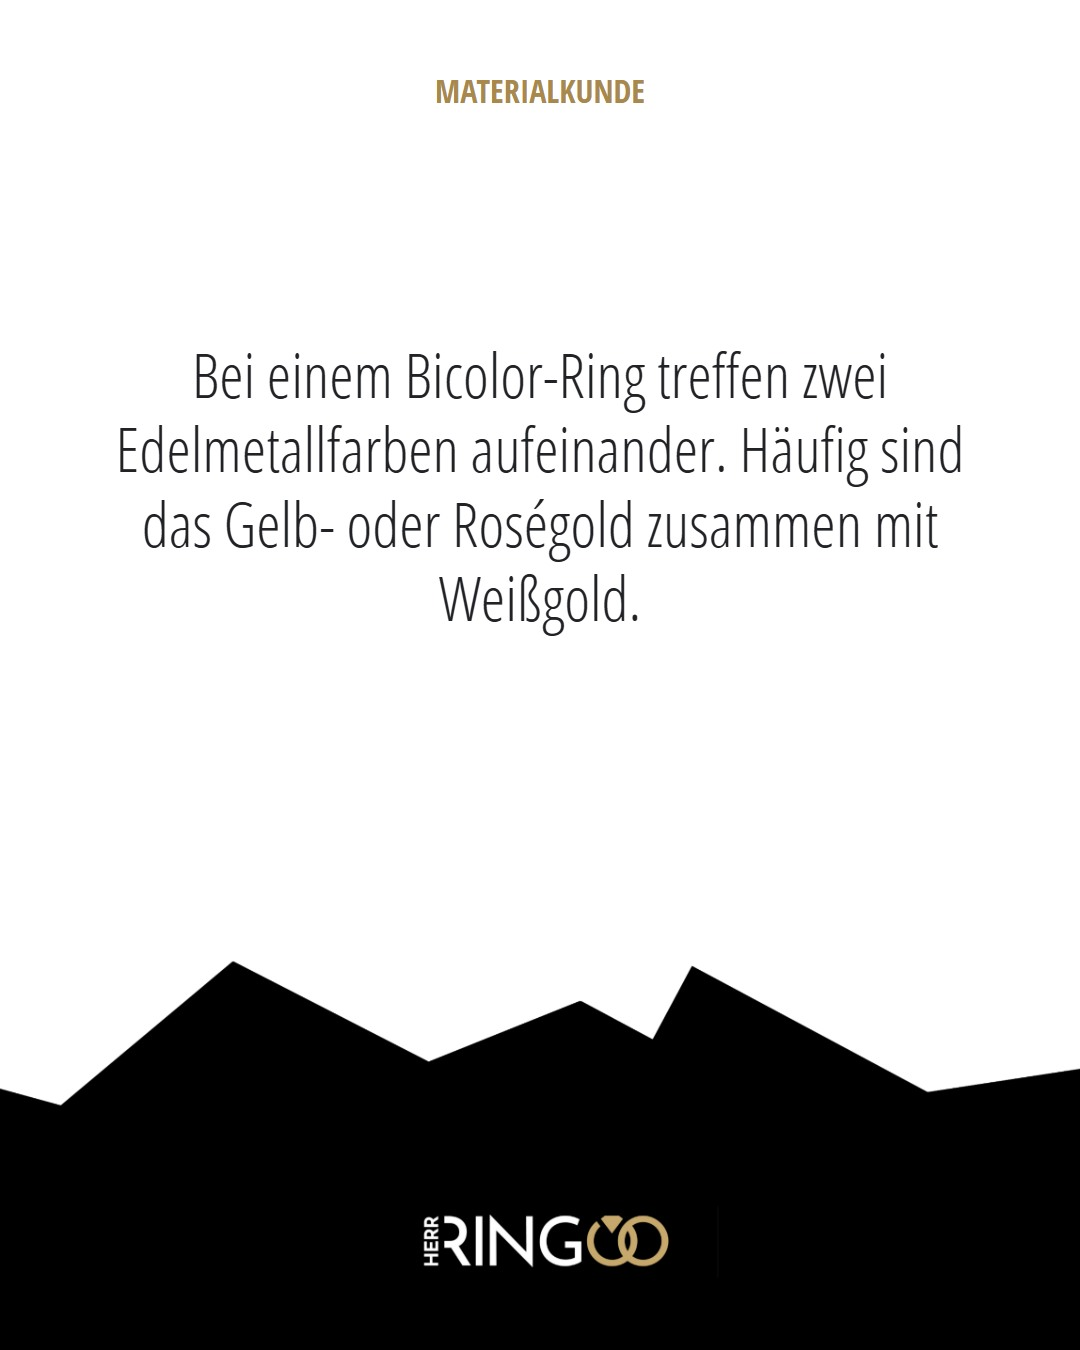
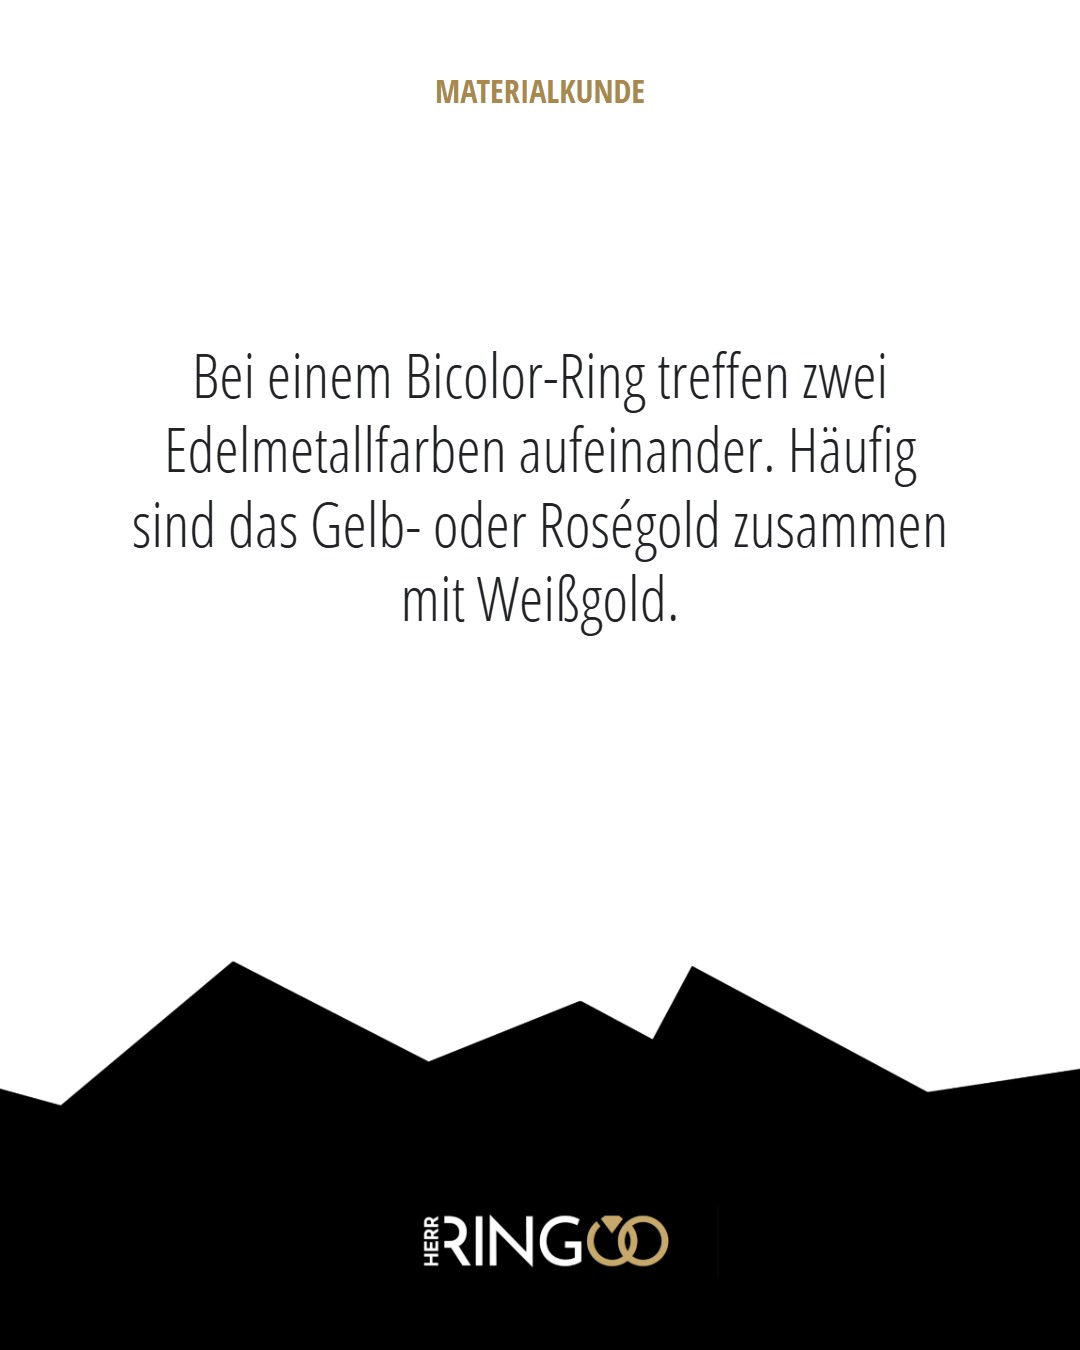
Slides for remaining Materialkunde posts, balanced line wrapping
- New slides for 26-08-gebrauchsspuren, 26-08-ring-entsteht and 26-08-die-4c
  (text unchanged except the approved "Geschirr" -> "Besteck" from the post comments)
- Balanced titles / no orphan words via text-wrap; all 30 slides re-rendered
- Styleguide: line wrapping, title font rule, background rotation

Changed region(s): [[0.0917, 0.3111, 0.9167, 0.4667]]

diff --git a/planungs-webseite/slides/26-08-die-4c.html b/planungs-webseite/slides/26-08-die-4c.html
@@ -1,0 +1,75 @@
+<!DOCTYPE html>
+<html lang="de">
+<head>
+<meta charset="utf-8">
+<meta name="viewport" content="width=device-width, initial-scale=1">
+<title>Slides – Materialkunde · Die 4 C</title>
+<link rel="preconnect" href="https://fonts.googleapis.com">
+<link rel="preconnect" href="https://fonts.gstatic.com" crossorigin>
+<link href="https://fonts.googleapis.com/css2?family=Josefin+Sans:ital,wght@0,400;0,600;0,700;1,400&family=Open+Sans+Condensed:ital,wght@0,300;0,700;1,300&display=swap" rel="stylesheet">
+<link rel="stylesheet" href="slides.css">
+</head>
+<body>
+<div class="toolbar">
+  <strong>Materialkunde · Die 4 C</strong>
+  <label>Größe
+    <select id="scale">
+      <option value="0.33">33 %</option>
+      <option value="0.5" selected>50 %</option>
+      <option value="0.75">75 %</option>
+      <option value="1">100 % (1080 × 1350)</option>
+    </select>
+  </label>
+  <label><input type="checkbox" id="safe"> Sicheren Textbereich anzeigen</label>
+  <a href="index.html">Alle Slides</a>
+</div>
+<main class="deck">
+
+  <figure class="frame"><div class="stage"><div class="slide bg2">
+    <p class="kicker">Materialkunde</p>
+    <div class="content">
+      <p class="p-xl">Die <span class="g">4 C</span></p>
+      <p class="dia" aria-hidden="true">◆</p>
+      <p class="p-text">So werden Diamanten miteinander verglichen.</p>
+    </div>
+  </div></div><figcaption>Folie 1 (bg 2)</figcaption></figure>
+
+  <figure class="frame"><div class="stage"><div class="slide bg3">
+    <p class="kicker">Materialkunde</p>
+    <div class="content">
+      <p class="p-big"><span class="g">Carat</span> · Gewicht</p>
+      <p class="dia" aria-hidden="true">◆</p>
+      <p class="p-text">Ein Karat entspricht 0,2 Gramm. Es beschreibt das Gewicht, nicht die sichtbare Größe. Zwei gleich schwere Steine können deshalb unterschiedlich groß wirken.</p>
+    </div>
+  </div></div><figcaption>Folie 2 (bg 3)</figcaption></figure>
+
+  <figure class="frame"><div class="stage"><div class="slide bg4">
+    <p class="kicker">Materialkunde</p>
+    <div class="content">
+      <p class="p-big"><span class="g">Cut</span> · Schliff</p>
+      <p class="dia" aria-hidden="true">◆</p>
+      <p class="p-text">Der Schliff bestimmt, wie ein Diamant das Licht zurückwirft. Gute Proportionen sorgen für Helligkeit und das typische Funkeln.</p>
+    </div>
+  </div></div><figcaption>Folie 3 (bg 4)</figcaption></figure>
+
+  <figure class="frame"><div class="stage"><div class="slide bg5">
+    <p class="kicker">Materialkunde</p>
+    <div class="content">
+      <p class="p-big"><span class="g">Color</span> · Farbe</p>
+      <p class="dia" aria-hidden="true">◆</p>
+      <p class="p-text">Bei weißen Diamanten wird beurteilt, wie farblos sie erscheinen. Kleine Unterschiede sind oft erst im direkten Vergleich zu erkennen.</p>
+    </div>
+  </div></div><figcaption>Folie 4 (bg 5)</figcaption></figure>
+
+  <figure class="frame"><div class="stage"><div class="slide bg6">
+    <p class="kicker">Materialkunde</p>
+    <div class="content">
+      <p class="p-big"><span class="g">Clarity</span> · Reinheit</p>
+      <p class="dia" aria-hidden="true">◆</p>
+      <p class="p-text small">Viele Diamanten enthalten winzige Einschlüsse. Häufig sind sie mit bloßem Auge nicht sichtbar, helfen aber dabei, einen Stein eindeutig zu beschreiben. Erst alle vier Merkmale zusammen ergeben ein vollständiges Bild.</p>
+    </div>
+  </div></div><figcaption>Folie 5 (bg 6)</figcaption></figure>
+</main>
+<script src="slides.js"></script>
+</body>
+</html>

diff --git a/planungs-webseite/slides/26-08-ring-entsteht.html b/planungs-webseite/slides/26-08-ring-entsteht.html
@@ -1,0 +1,75 @@
+<!DOCTYPE html>
+<html lang="de">
+<head>
+<meta charset="utf-8">
+<meta name="viewport" content="width=device-width, initial-scale=1">
+<title>Slides – Materialkunde · Wie euer Ring entsteht</title>
+<link rel="preconnect" href="https://fonts.googleapis.com">
+<link rel="preconnect" href="https://fonts.gstatic.com" crossorigin>
+<link href="https://fonts.googleapis.com/css2?family=Josefin+Sans:ital,wght@0,400;0,600;0,700;1,400&family=Open+Sans+Condensed:ital,wght@0,300;0,700;1,300&display=swap" rel="stylesheet">
+<link rel="stylesheet" href="slides.css">
+</head>
+<body>
+<div class="toolbar">
+  <strong>Materialkunde · Wie euer Ring entsteht</strong>
+  <label>Größe
+    <select id="scale">
+      <option value="0.33">33 %</option>
+      <option value="0.5" selected>50 %</option>
+      <option value="0.75">75 %</option>
+      <option value="1">100 % (1080 × 1350)</option>
+    </select>
+  </label>
+  <label><input type="checkbox" id="safe"> Sicheren Textbereich anzeigen</label>
+  <a href="index.html">Alle Slides</a>
+</div>
+<main class="deck">
+
+  <figure class="frame"><div class="stage"><div class="slide bg5">
+    <p class="kicker">Materialkunde</p>
+    <div class="content">
+      <p class="p-big">Vom Material<br><span class="g">zum Trauring</span></p>
+      <p class="dia" aria-hidden="true">◆</p>
+      <p class="p-text">Viele Arbeitsschritte für ein einziges Ringpaar.</p>
+    </div>
+  </div></div><figcaption>Folie 1 (bg 5)</figcaption></figure>
+
+  <figure class="frame"><div class="stage"><div class="slide bg6">
+    <p class="kicker">Materialkunde</p>
+    <div class="content">
+      <p class="p-big"><span class="g">1 ·</span> Die Legierung</p>
+      <p class="dia" aria-hidden="true">◆</p>
+      <p class="p-text">Gold und weitere Metalle werden nach einer festgelegten Rezeptur zusammengeschmolzen. Daraus entsteht das Ausgangsmaterial für den Ring.</p>
+    </div>
+  </div></div><figcaption>Folie 2 (bg 6)</figcaption></figure>
+
+  <figure class="frame"><div class="stage"><div class="slide bg7">
+    <p class="kicker">Materialkunde</p>
+    <div class="content">
+      <p class="p-big"><span class="g">2 ·</span> Der Rohling</p>
+      <p class="dia" aria-hidden="true">◆</p>
+      <p class="p-text">Je nach Modell wird das Material gegossen, geformt, gewalzt oder spanend bearbeitet. Der genaue Weg unterscheidet sich von Hersteller zu Hersteller.</p>
+    </div>
+  </div></div><figcaption>Folie 3 (bg 7)</figcaption></figure>
+
+  <figure class="frame"><div class="stage"><div class="slide bg8">
+    <p class="kicker">Materialkunde</p>
+    <div class="content">
+      <p class="p-big"><span class="g">3 ·</span> Form und Steine</p>
+      <p class="dia" aria-hidden="true">◆</p>
+      <p class="p-text">Breite, Stärke und Profil werden ausgearbeitet. Falls Steine vorgesehen sind, werden die Fassungen vorbereitet und die Steine einzeln gesetzt.</p>
+    </div>
+  </div></div><figcaption>Folie 4 (bg 8)</figcaption></figure>
+
+  <figure class="frame"><div class="stage"><div class="slide bg1">
+    <p class="kicker">Materialkunde</p>
+    <div class="content">
+      <p class="p-big"><span class="g">4 ·</span> Oberfläche<br>und Gravur</p>
+      <p class="dia" aria-hidden="true">◆</p>
+      <p class="p-text">Zum Schluss erhält der Ring seine polierte, matte oder strukturierte Oberfläche. Danach folgen Gravur, Kontrolle und der Weg zu euch.</p>
+    </div>
+  </div></div><figcaption>Folie 5 (bg 1)</figcaption></figure>
+</main>
+<script src="slides.js"></script>
+</body>
+</html>

diff --git a/planungs-webseite/slides/26-08-gebrauchsspuren.html b/planungs-webseite/slides/26-08-gebrauchsspuren.html
@@ -1,0 +1,65 @@
+<!DOCTYPE html>
+<html lang="de">
+<head>
+<meta charset="utf-8">
+<meta name="viewport" content="width=device-width, initial-scale=1">
+<title>Slides – Materialkunde · Warum jeder Ring Spuren bekommt</title>
+<link rel="preconnect" href="https://fonts.googleapis.com">
+<link rel="preconnect" href="https://fonts.gstatic.com" crossorigin>
+<link href="https://fonts.googleapis.com/css2?family=Josefin+Sans:ital,wght@0,400;0,600;0,700;1,400&family=Open+Sans+Condensed:ital,wght@0,300;0,700;1,300&display=swap" rel="stylesheet">
+<link rel="stylesheet" href="slides.css">
+</head>
+<body>
+<div class="toolbar">
+  <strong>Materialkunde · Warum jeder Ring Spuren bekommt</strong>
+  <label>Größe
+    <select id="scale">
+      <option value="0.33">33 %</option>
+      <option value="0.5" selected>50 %</option>
+      <option value="0.75">75 %</option>
+      <option value="1">100 % (1080 × 1350)</option>
+    </select>
+  </label>
+  <label><input type="checkbox" id="safe"> Sicheren Textbereich anzeigen</label>
+  <a href="index.html">Alle Slides</a>
+</div>
+<main class="deck">
+
+  <figure class="frame"><div class="stage"><div class="slide bg8">
+    <p class="kicker">Materialkunde</p>
+    <div class="content">
+      <p class="p-big">Warum jeder Ring<br><span class="g">Spuren bekommt</span></p>
+    </div>
+  </div></div><figcaption>Folie 1 (bg 8)</figcaption></figure>
+
+  <figure class="frame"><div class="stage"><div class="slide bg1">
+    <p class="kicker">Materialkunde</p>
+    <div class="content">
+      <p class="p-sub">Ein Trauring berührt jeden Tag Türklinken, Besteck, Werkzeuge und andere Gegenstände. Feine Linien auf der Oberfläche lassen sich deshalb nicht vollständig vermeiden.</p>
+    </div>
+  </div></div><figcaption>Folie 2 (bg 1)</figcaption></figure>
+
+  <figure class="frame"><div class="stage"><div class="slide bg2">
+    <p class="kicker">Materialkunde</p>
+    <div class="content">
+      <p class="p-sub">Das ist kein Qualitätsmangel. Es ist schlicht das normale Bild eines Rings, der getragen wird.</p>
+    </div>
+  </div></div><figcaption>Folie 3 (bg 2)</figcaption></figure>
+
+  <figure class="frame"><div class="stage"><div class="slide bg3">
+    <p class="kicker">Materialkunde</p>
+    <div class="content">
+      <p class="p-sub">Wie sichtbar die Spuren sind, hängt von Material, Oberfläche und Alltag ab. Auf Hochglanz fallen einzelne Kratzer früh auf. Matte Flächen verändern sich eher gleichmäßig.</p>
+    </div>
+  </div></div><figcaption>Folie 4 (bg 3)</figcaption></figure>
+
+  <figure class="frame"><div class="stage"><div class="slide bg4">
+    <p class="kicker">Materialkunde</p>
+    <div class="content">
+      <p class="p-sub">Mit der Zeit entsteht ein ruhigeres Gesamtbild. Wer den ursprünglichen Glanz vermisst, kann die Oberfläche später professionell auffrischen lassen.</p>
+    </div>
+  </div></div><figcaption>Folie 5 (bg 4)</figcaption></figure>
+</main>
+<script src="slides.js"></script>
+</body>
+</html>

diff --git a/planungs-webseite/slides/index.html b/planungs-webseite/slides/index.html
@@ -13,6 +13,9 @@
   <li><a href="26-08-platin-weissgold.html">Materialkunde · Platin oder Weißgold?</a></li>
   <li><a href="26-08-goldfarben.html">Materialkunde · Gelb, Weiß oder Rosé</a></li>
   <li><a href="26-08-bicolor.html">Materialkunde · Bicolor</a></li>
+  <li><a href="26-08-gebrauchsspuren.html">Materialkunde · Warum jeder Ring Spuren bekommt</a></li>
+  <li><a href="26-08-ring-entsteht.html">Materialkunde · Wie euer Ring entsteht</a></li>
+  <li><a href="26-08-die-4c.html">Materialkunde · Die 4 C</a></li>
 </ul>
 </body>
 </html>

diff --git a/planungs-webseite/slides/slides.css b/planungs-webseite/slides/slides.css
@@ -113,3 +113,7 @@ body { margin: 0; background: #2a2b2f; color: #e5e6e9; font-family: var(--font-b
 
 /* Prüfung: Inhalt ragt aus dem sicheren Bereich (setzt slides.js) */
 .slide[data-overflow="1"] .content { outline: 6px solid #e0003c; outline-offset: -6px; }
+
+/* Zeilenumbrüche: Titel ausgewogen, Fließtext ohne einzelne Wörter in der letzten Zeile */
+.p-xl, .p-big, .p-title, .p-oder { text-wrap: balance; }
+.p-text, .p-sub { text-wrap: pretty; }

diff --git a/planungs-webseite/slides/STYLEGUIDE-SLIDES.md b/planungs-webseite/slides/STYLEGUIDE-SLIDES.md
@@ -68,6 +68,16 @@ Kein `letter-spacing`. Versalien über `text-transform: uppercase`. Alles **zent
 | Trenner | `.dia` | Raute (Fläche) | 20 × 20 px | Gold |
 | Hervorhebung | `.g` | – | – | Gold dunkel |
 
+### Zeilenumbrüche und Titelschrift
+
+Titel brechen ausgewogen um (`text-wrap: balance`), Fließtext vermeidet einzelne Wörter in der
+letzten Zeile (`text-wrap: pretty`). Manuelle Umbrüche (`<br>`) nur in Cover-Titeln, wenn der
+zweite Teil farbig hervorgehoben wird (z. B. „Vom Material / zum Trauring“).
+
+Längere Titel (mehr als ca. 10 Zeichen, z. B. „1 · Die Legierung“, „Carat · Gewicht“) stehen in
+Open Sans Condensed (`.p-big`). Josefin Sans (`.p-title`) bleibt kurzen, prägnanten Titeln
+vorbehalten (z. B. „Weißgold“), wie auf herr-ringoo.de.
+
 ## 4. Abstände
 
 **8er-Raster:** Alle Abstände sind Vielfache von 8 px und als Tokens in `slides.css` definiert
@@ -137,4 +147,7 @@ Gold ist Akzent, nie Fläche.
 | 26-08-platin-weissgold | 1, 2, 3, 4, 5 |
 | 26-08-goldfarben | 6, 7, 8, 1, 2 |
 | 26-08-bicolor | 3, 4, 5, 6, 7 |
-| nächster Post | 8, 1, 2, 3, 4 |
+| 26-08-gebrauchsspuren | 8, 1, 2, 3, 4 |
+| 26-08-ring-entsteht | 5, 6, 7, 8, 1 |
+| 26-08-die-4c | 2, 3, 4, 5, 6 |
+| nächster Post | 7, 8, 1, 2, 3 |
